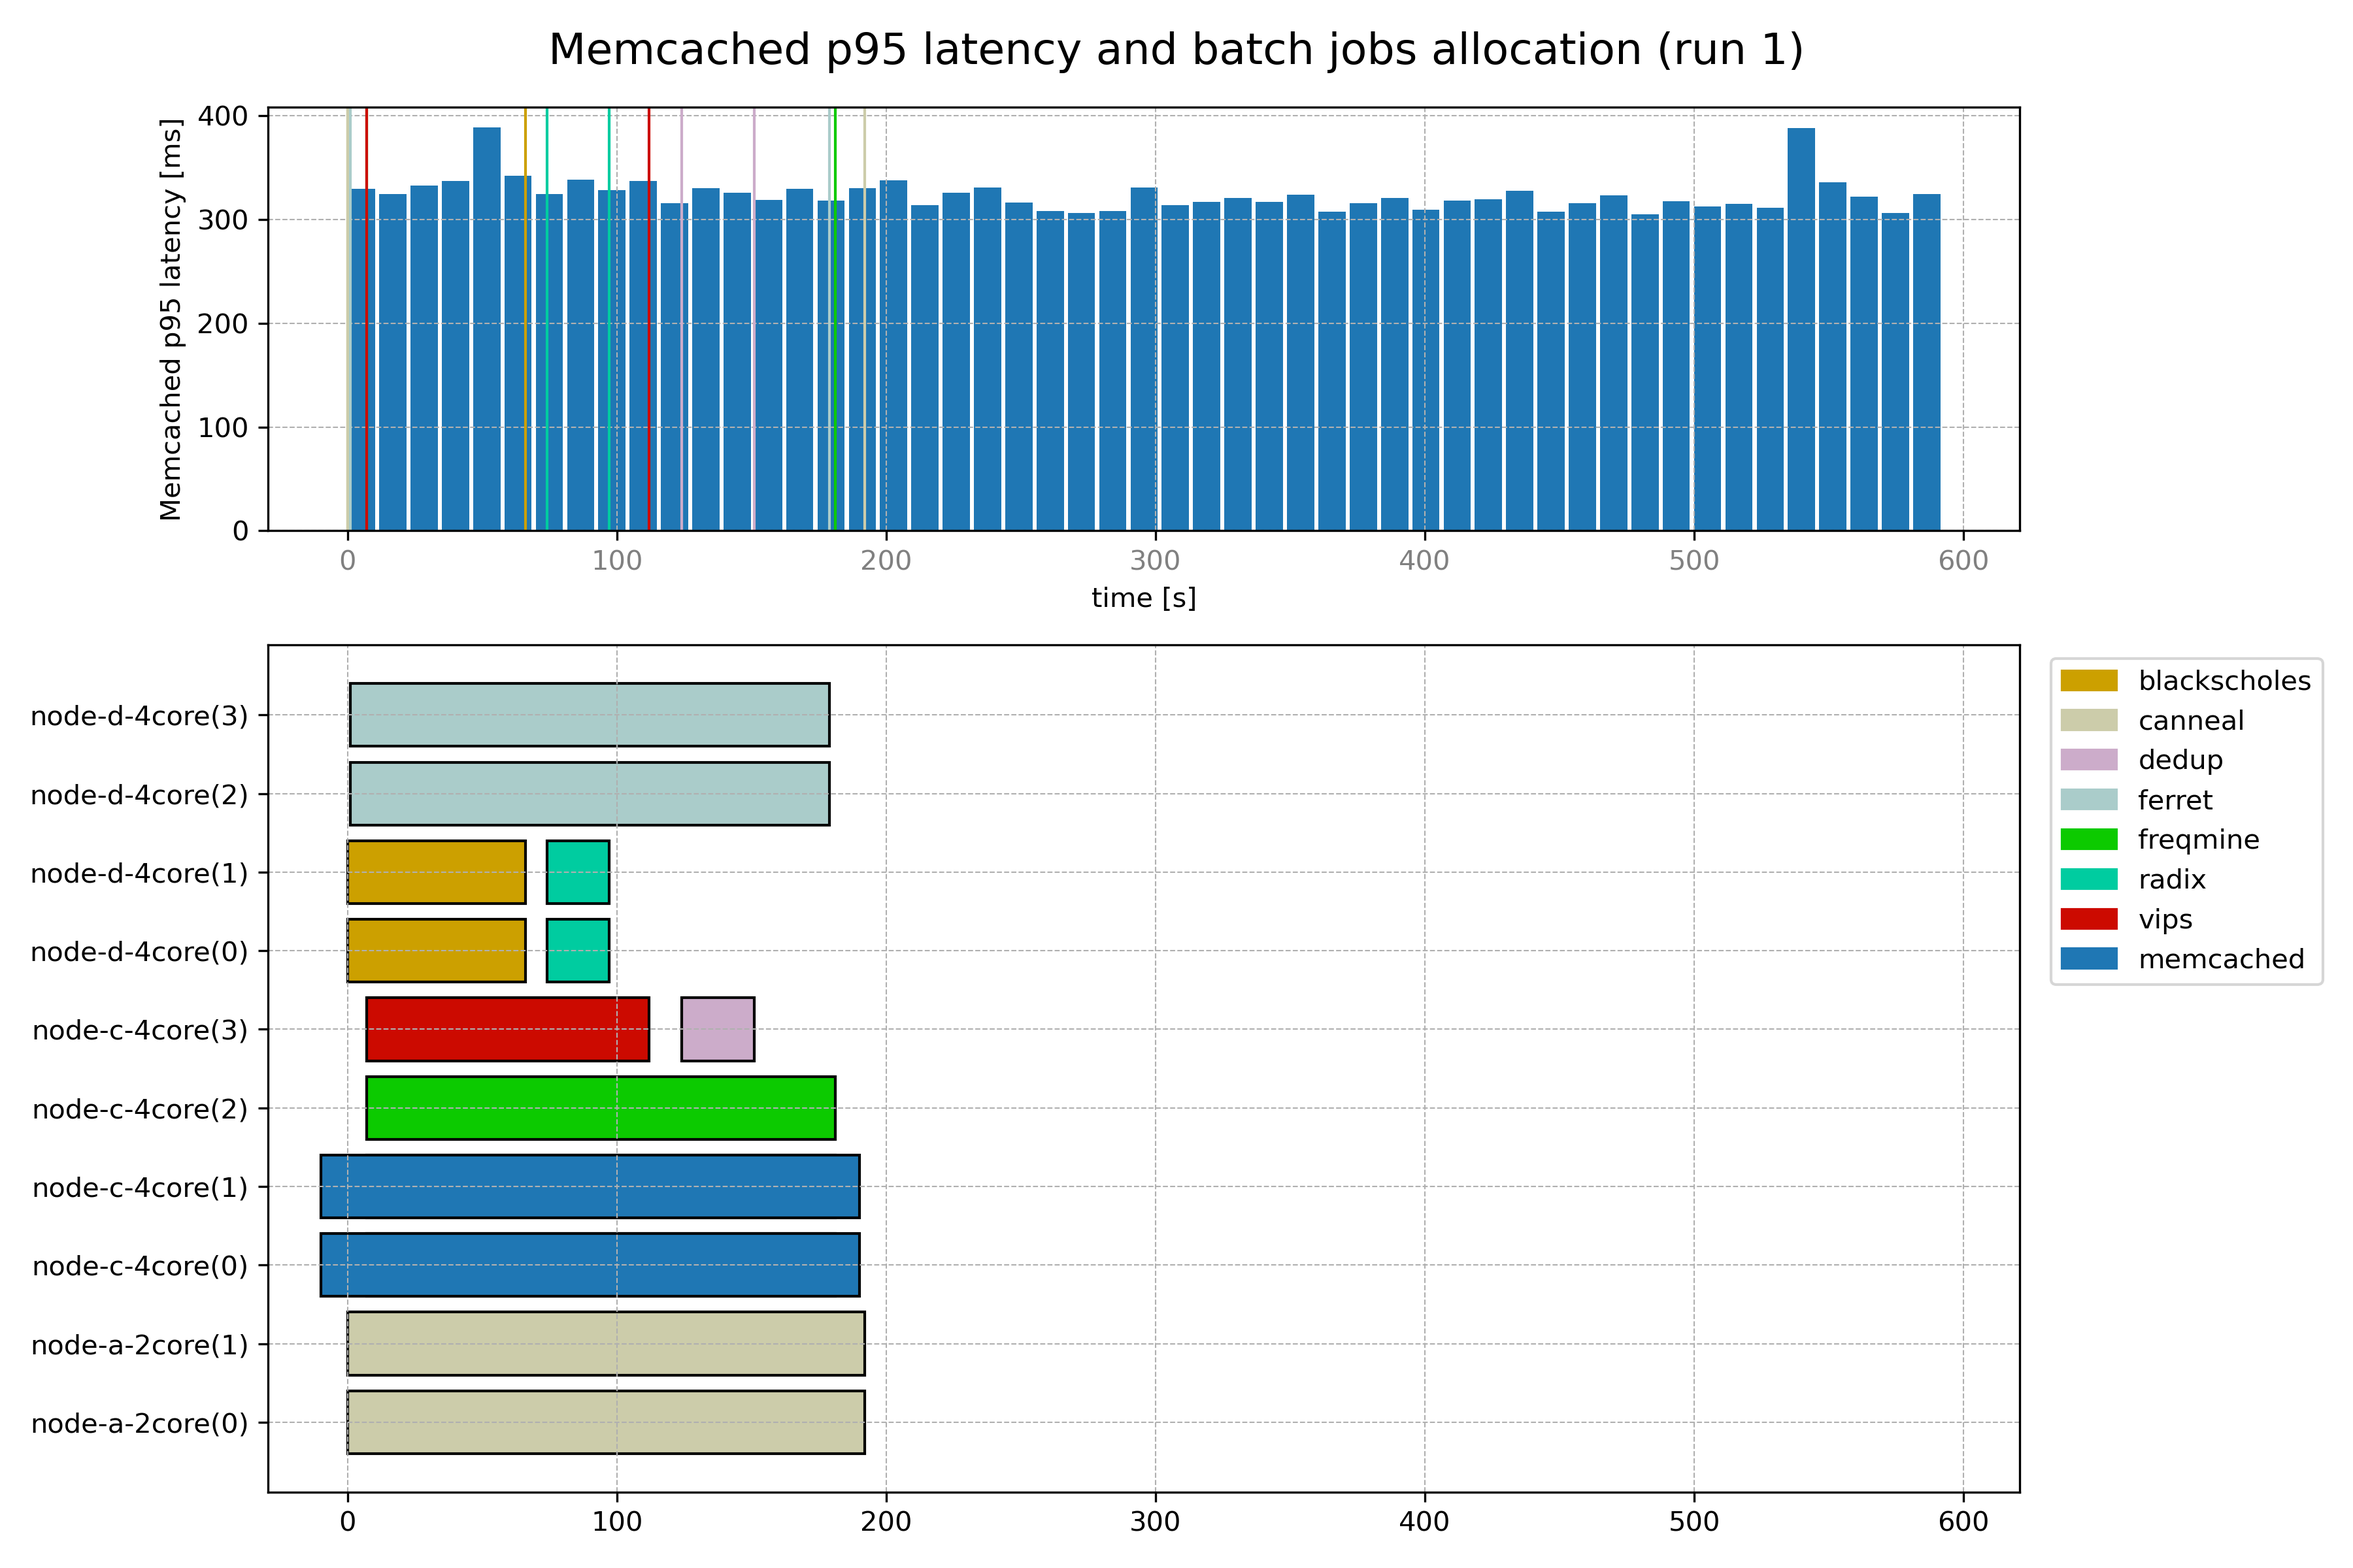
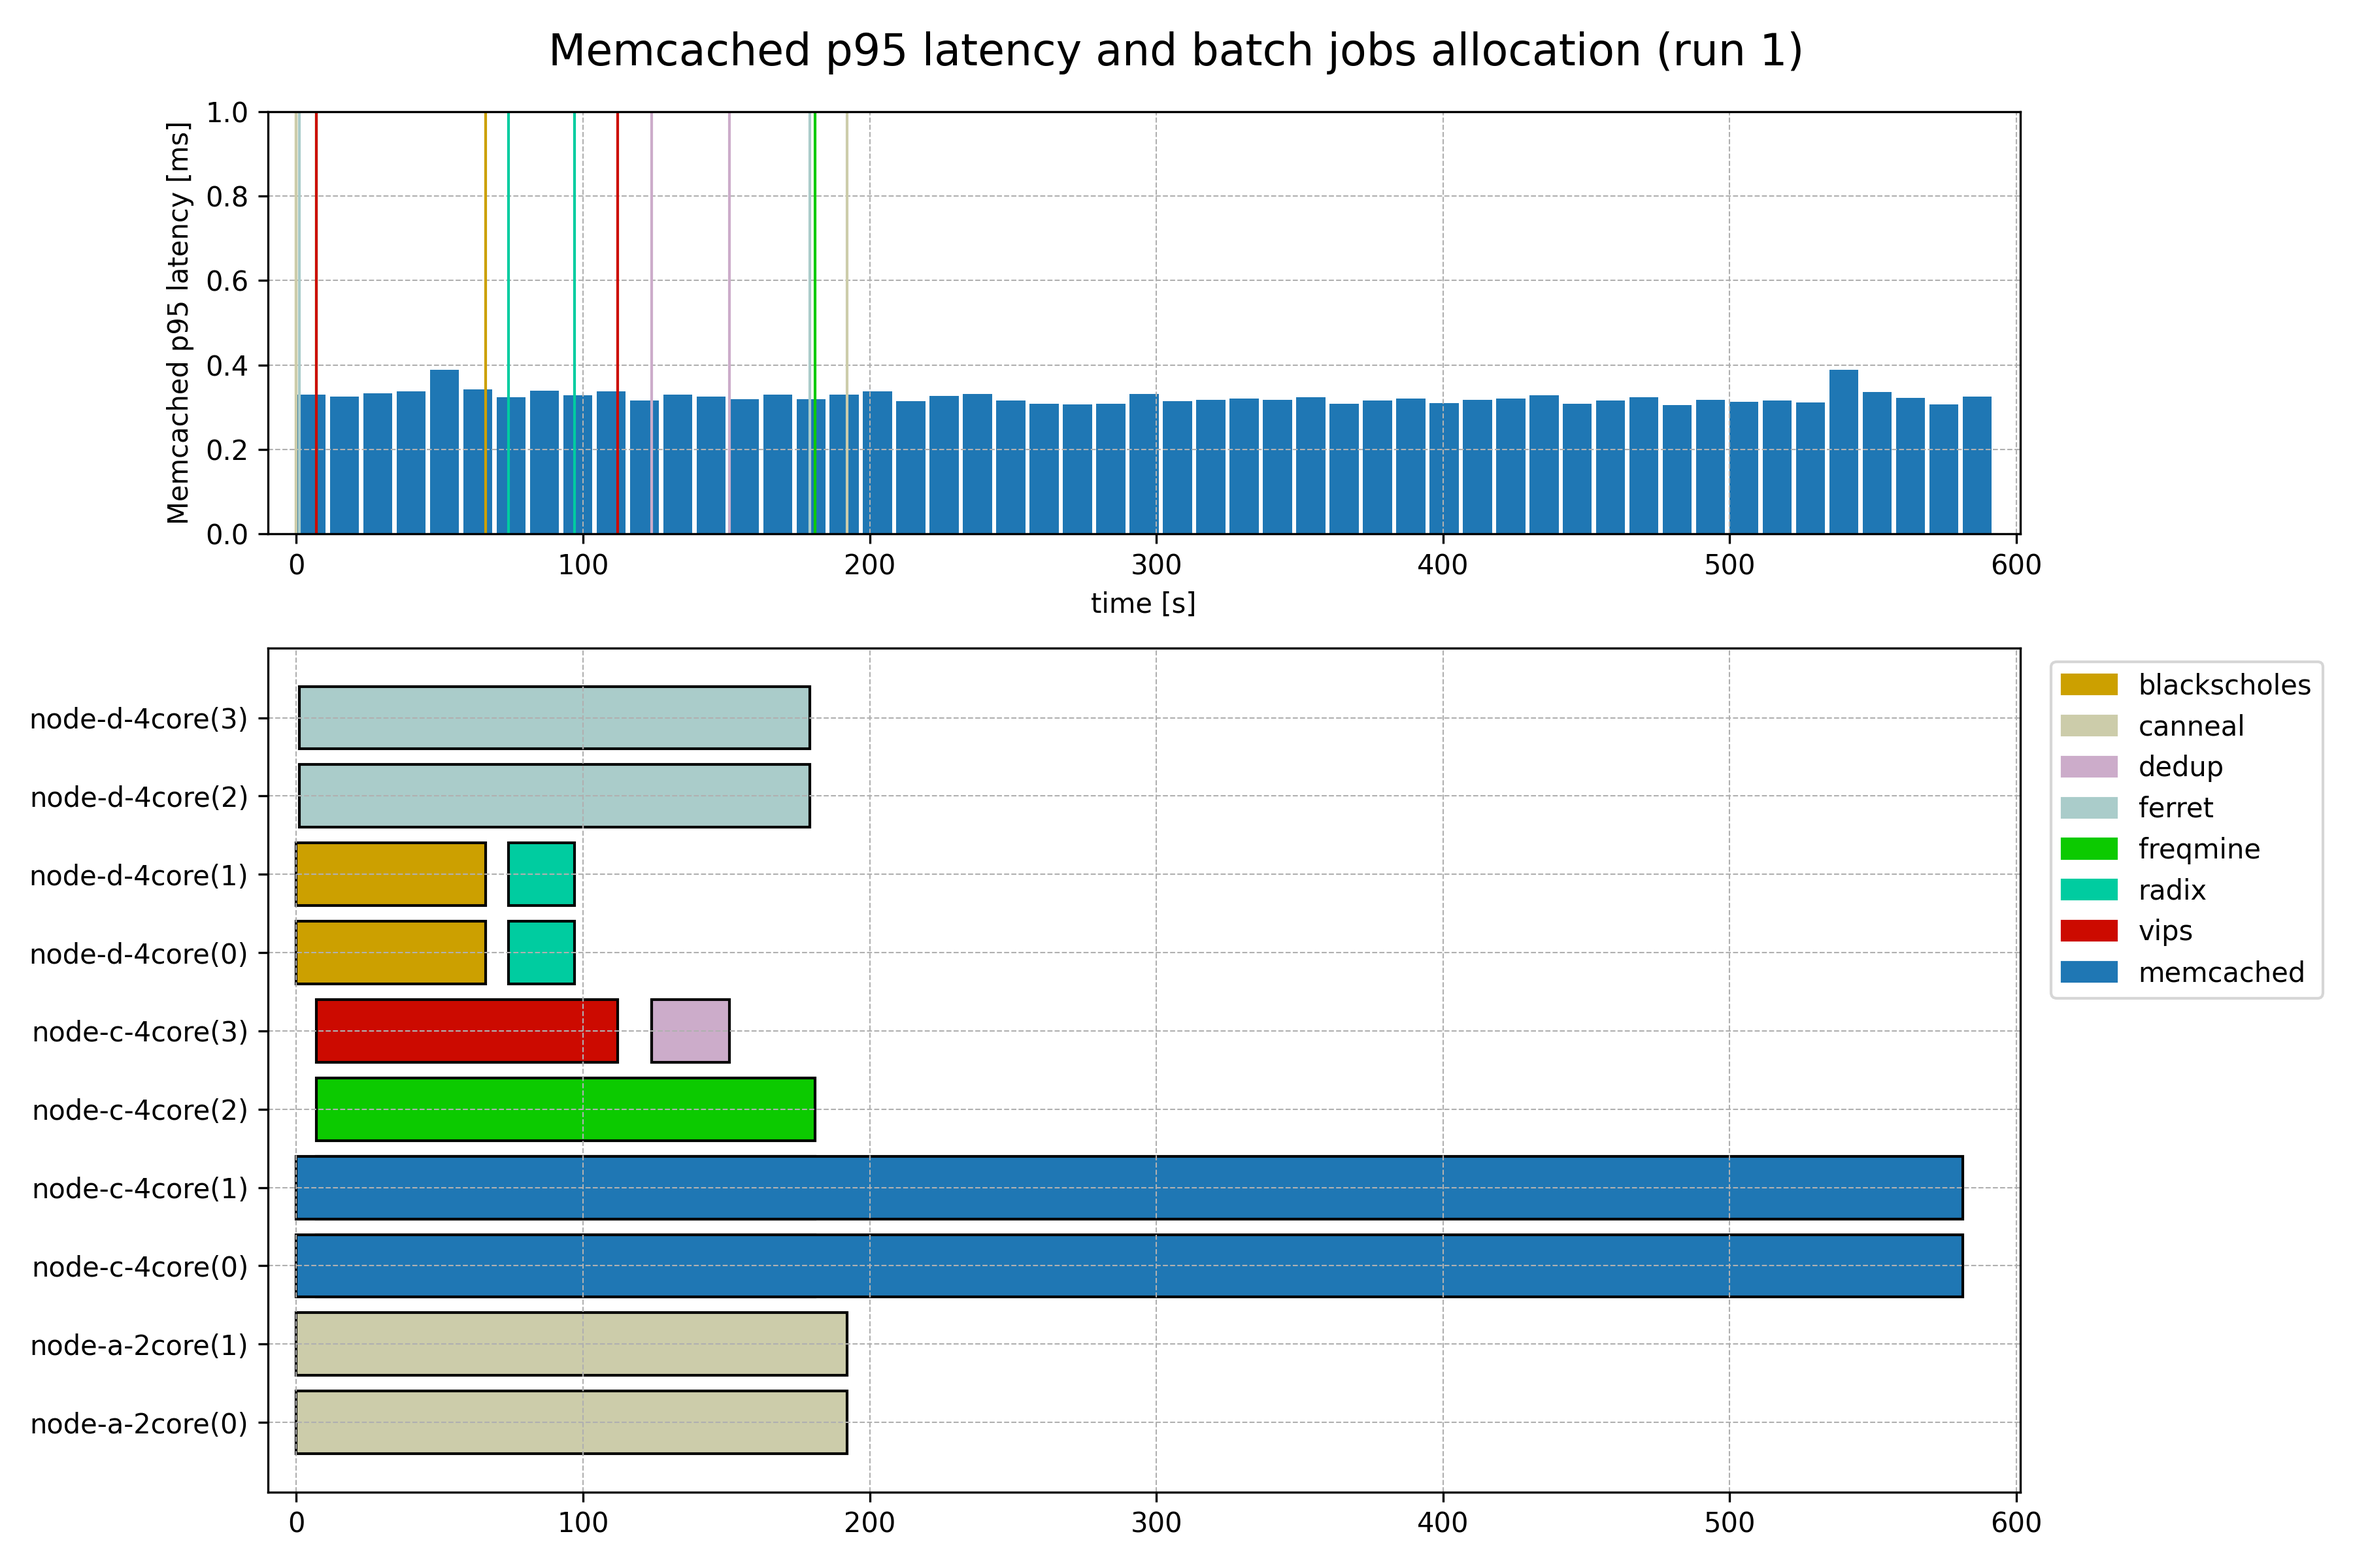
fix plot_part3.py

diff --git a/part3/part_3_results_group_031/plot_part3.py b/part3/part_3_results_group_031/plot_part3.py
@@ -116,6 +116,12 @@ def plot_results(latency_data, job_data, run_label="run"):
     min_start_time = min(job['start'] for job in job_data if job['name'] != 'memcached')
     max_end_time = max(job['start'] for job in job_data if job['name'] != 'memcached')
     min_start = latency_data['ts_start'][0]
+    #min_start1 =  min(latency['ts_start'] for latency in latency_data )
+    #print(("----------------MIN START 1", min_start1))
+    print(("----------------MIN START ", min_start))
+    print(("----------------LATENCY DATA ", latency_data['ts_start']))
+    max_ts_start = latency_data['ts_start'].max()
+    print("Max ts_start:", max_ts_start)
 
     # Set up plots
     fig, (ax1, ax2) = plt.subplots(2, 1, figsize=(12, 8), gridspec_kw={'height_ratios': [1, 2]})
@@ -124,7 +130,7 @@ def plot_results(latency_data, job_data, run_label="run"):
     # --- Plot 1: Memcached p95 latency ---
     ax1.bar(
         (latency_data['ts_start'] - min_start) / 1000,
-        latency_data['p95'],
+        latency_data['p95'] / 1000,
         width=(latency_data['ts_end'] - latency_data['ts_start']) / 1000,
         align='edge',
         color=job_colors['memcached']
@@ -135,11 +141,13 @@ def plot_results(latency_data, job_data, run_label="run"):
         ((latency_data['ts_start'] - min_start) / 1000).tolist() +
         ((latency_data['ts_end'] - min_start) / 1000).tolist()
     ))
-
+    
+    ax1.set_xlim(-10, ((max_ts_start - min_start) / 1000)+20)
+    ax1.set_ylim(0, 1)
     #ax1.set_xticks(xticks)
     #ax1.set_xticklabels([f"{x:.0f}" for x in xticks], rotation=90)
-    for label in ax1.get_xticklabels():
-        label.set_color('gray')
+    # for label in ax1.get_xticklabels():
+    #     label.set_color('gray')
 
     # --- Plot 2: Gantt-style job-core allocation ---
 
@@ -171,8 +179,8 @@ def plot_results(latency_data, job_data, run_label="run"):
             #ax2.axvline(start, color=color, linestyle='-', linewidth=0.9)
             #ax2.axvline(start + duration, color=color, linestyle='-', linewidth=0.9)
         else:
-            start = -10
-            duration = 200
+            start = 0
+            duration = ((max_ts_start - min_start) / 1000)
 
         for core in job['cores']:
             label = f"{job['node']}({core})"
@@ -206,7 +214,7 @@ if __name__ == "__main__":
     job_data = parse_results_json(files_names[1])
     print("------------------LATENCY DATA------------------------")
     print(latency_data)
-    print("------------------JOB DATA------------------------")
+    print("---------------------JOB DATA------------------------")
     print(job_data)
     
     #plot_results1(latency_data, job_data)
